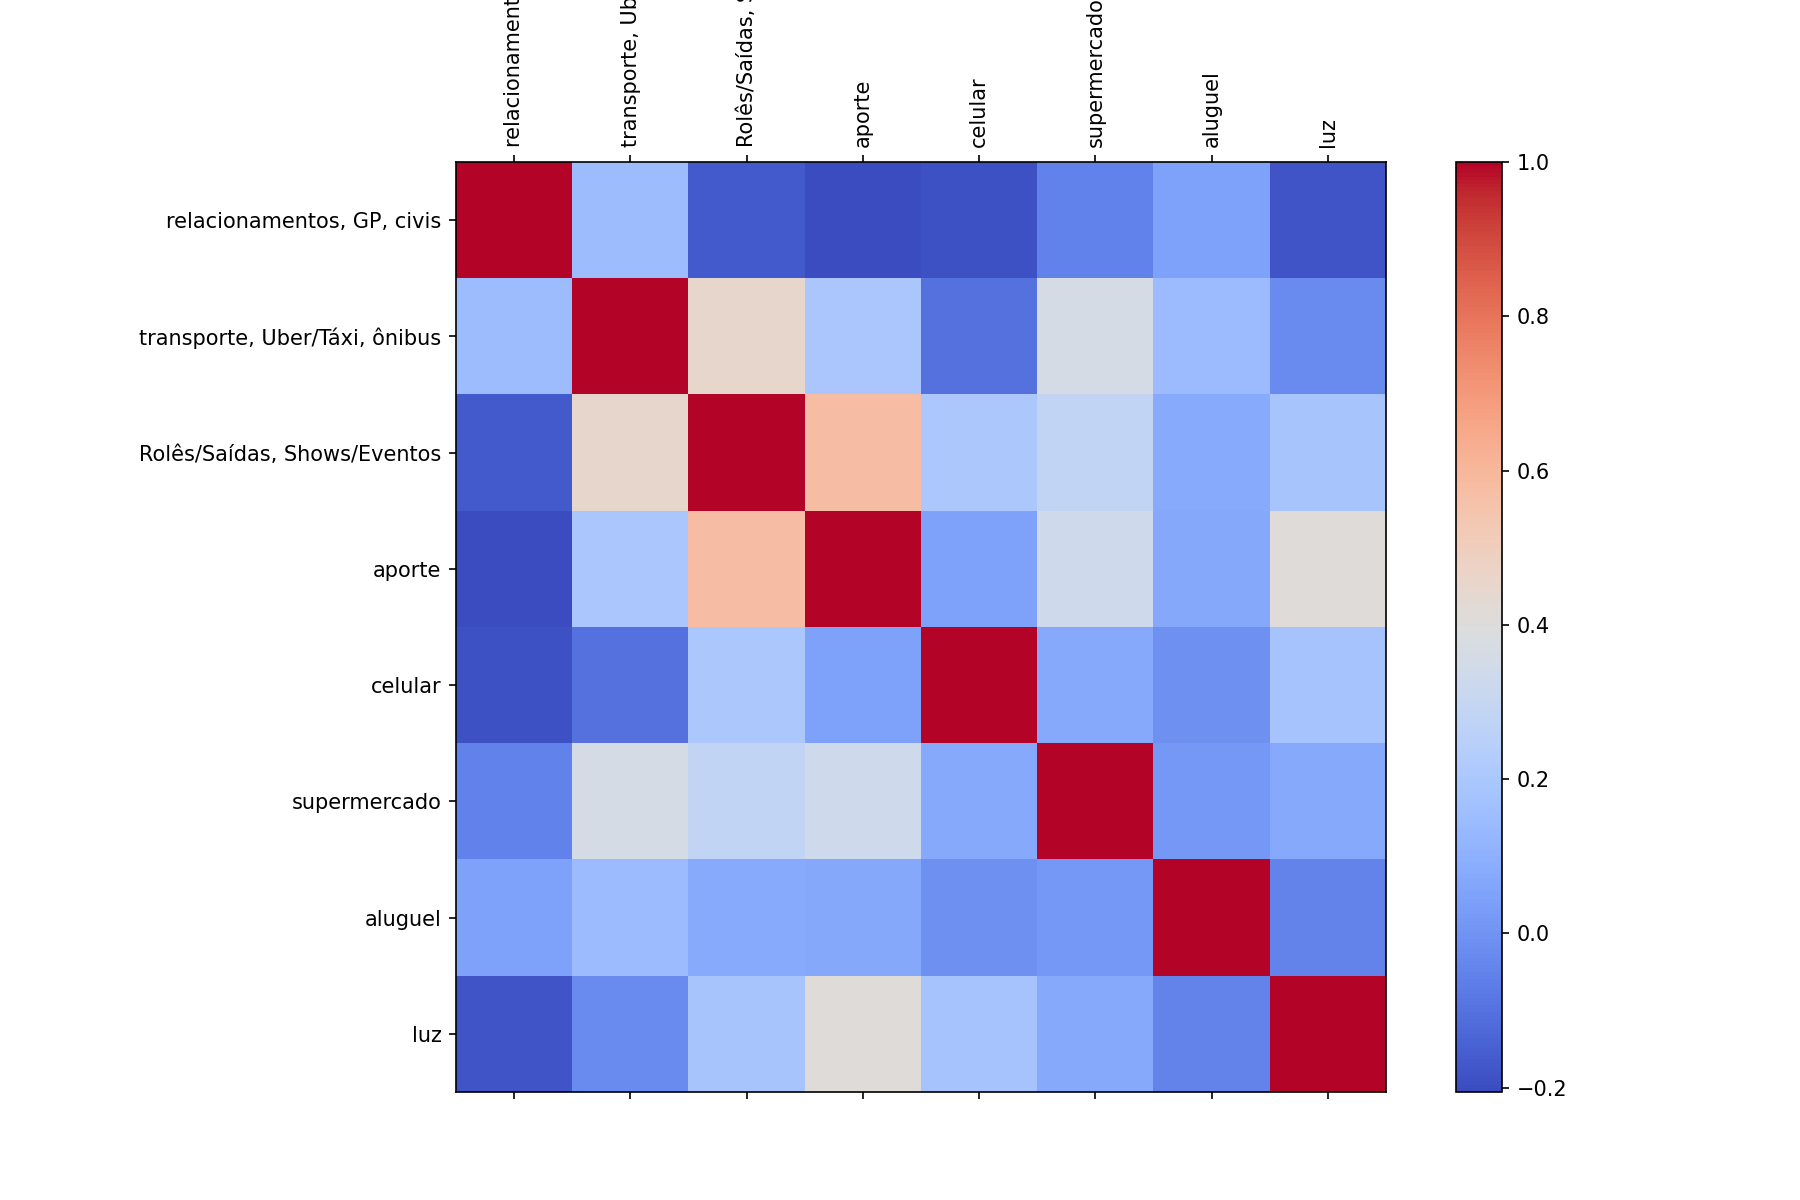
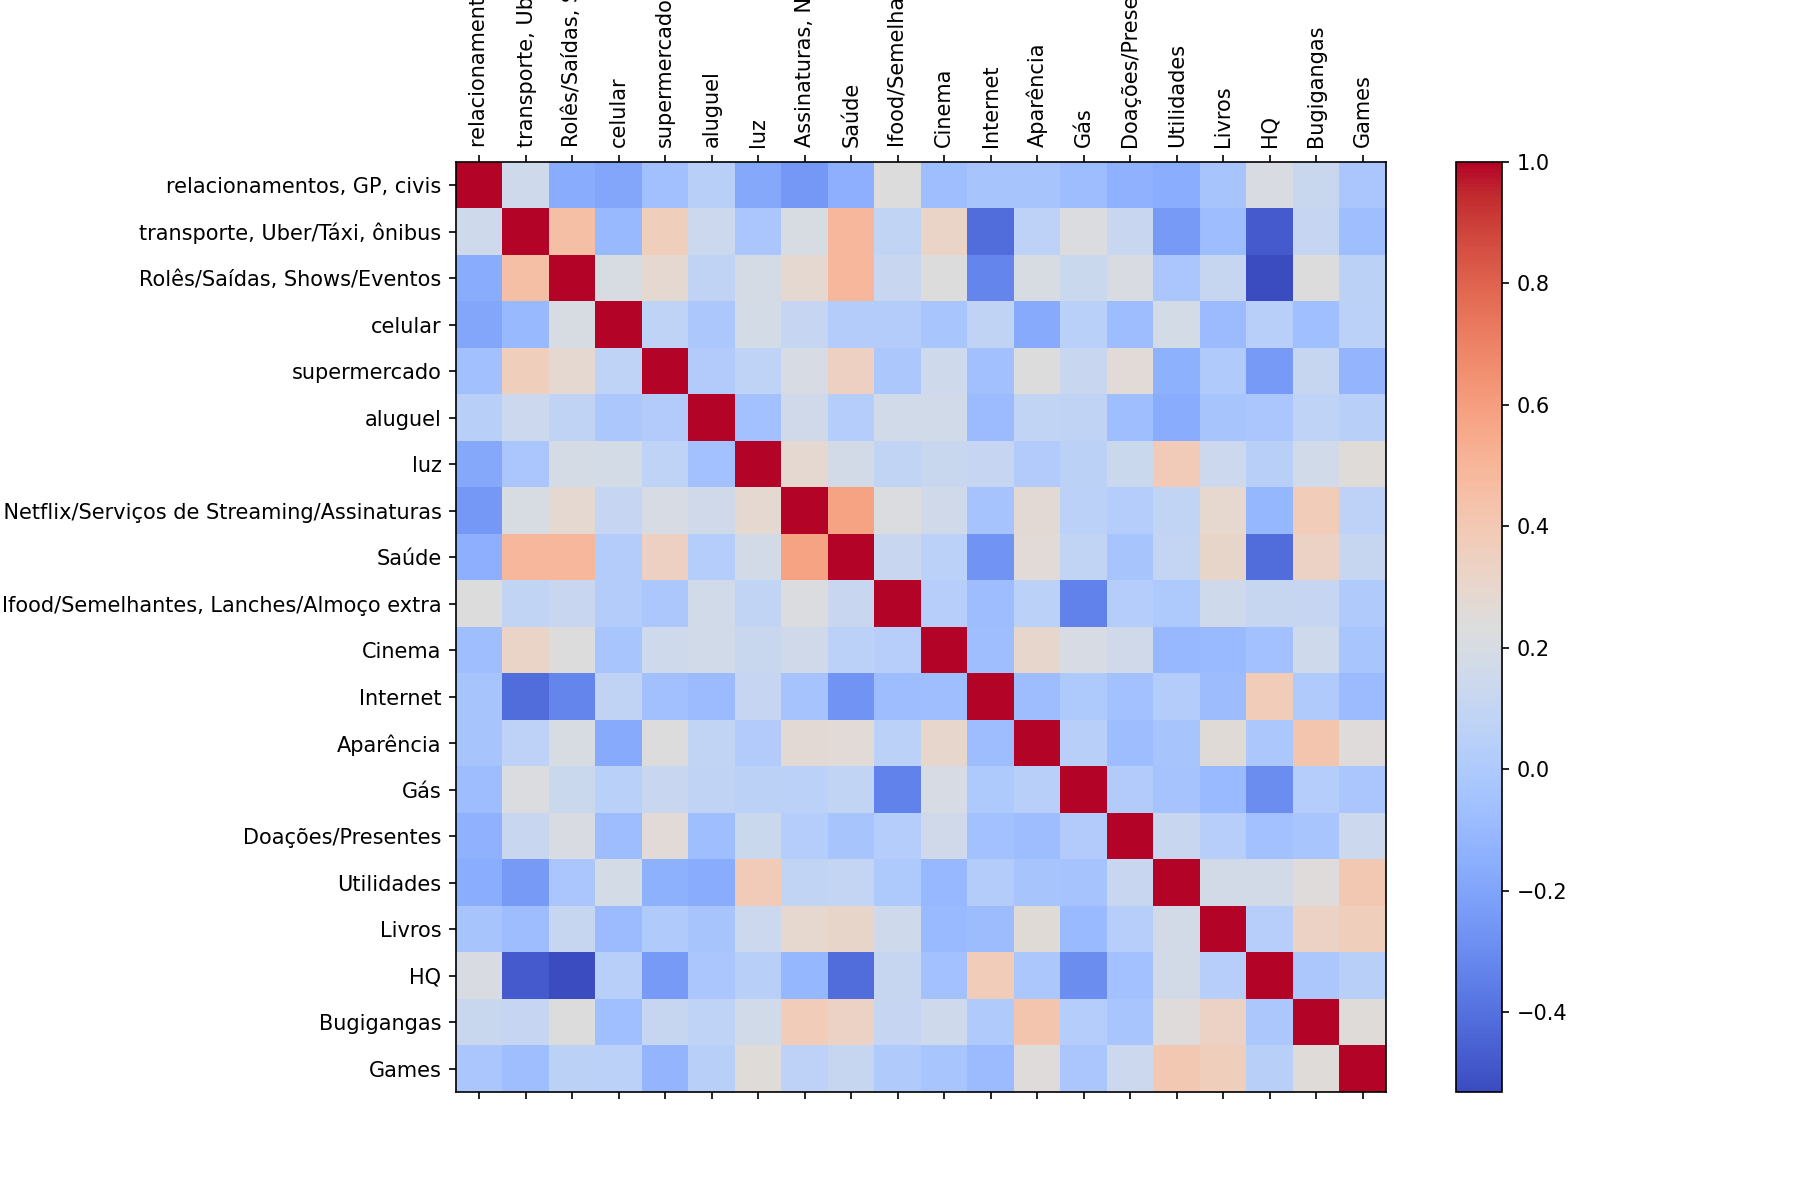
correlacao

diff --git a/correlacao.py b/correlacao.py
@@ -69,11 +69,26 @@ categorias = [
     ['relacionamentos', 'GP', 'civis'],
     ['transporte','Uber/Táxi','ônibus'],
     ['Rolês/Saídas','Shows/Eventos'],
-    ['aporte'],
+    ##['aporte'],
     ['celular'],
     ['supermercado'],
     ['aluguel'],
-    ['luz']
+    ['luz'],
+    ['Assinaturas','Netflix/Serviços de Streaming/Assinaturas'],
+    ['Saúde'],
+    ['Ifood/Semelhantes','Lanches/Almoço extra'],
+    ['Cinema'],
+    ['Internet'],
+    ['Aparência'],
+    ['Gás'],
+    ['Doações/Presentes'],
+    ['Utilidades'],
+    ['Livros'],
+    ['HQ'],
+    ['Bugigangas'],
+    ['Games']
+
+
 ]
 
 # Coletar dados para todas as categorias
@@ -114,7 +129,7 @@ df_ordenado = df_correlacoes.sort_values(by='Correlação Absoluta', ascending=F
 
 # Exibir resultados
 print("\nTop 10 correlações mais fortes:")
-print(df_ordenado[['Categoria A', 'Categoria B', 'Pearson', 'Spearman']].head(10))
+print(df_ordenado[['Categoria A', 'Categoria B', 'Pearson', 'Spearman']].head(30))
 
 # Opcional: Salvar resultados em CSV
 df_ordenado.to_csv('correlacoes_categorias.csv', index=False)

diff --git a/grafico.py b/grafico.py
@@ -80,5 +80,5 @@ def gerar_grafico(categoria, diretorio_base=None, cor='green'):
     print(f"Gráfico salvo como {nome_arquivo}")
 
 # Exemplo de uso:
-gerar_grafico('transporte', cor='blue')
-gerar_grafico('supermercado')
+gerar_grafico('internet', cor='blue')
+gerar_grafico('transporte')
